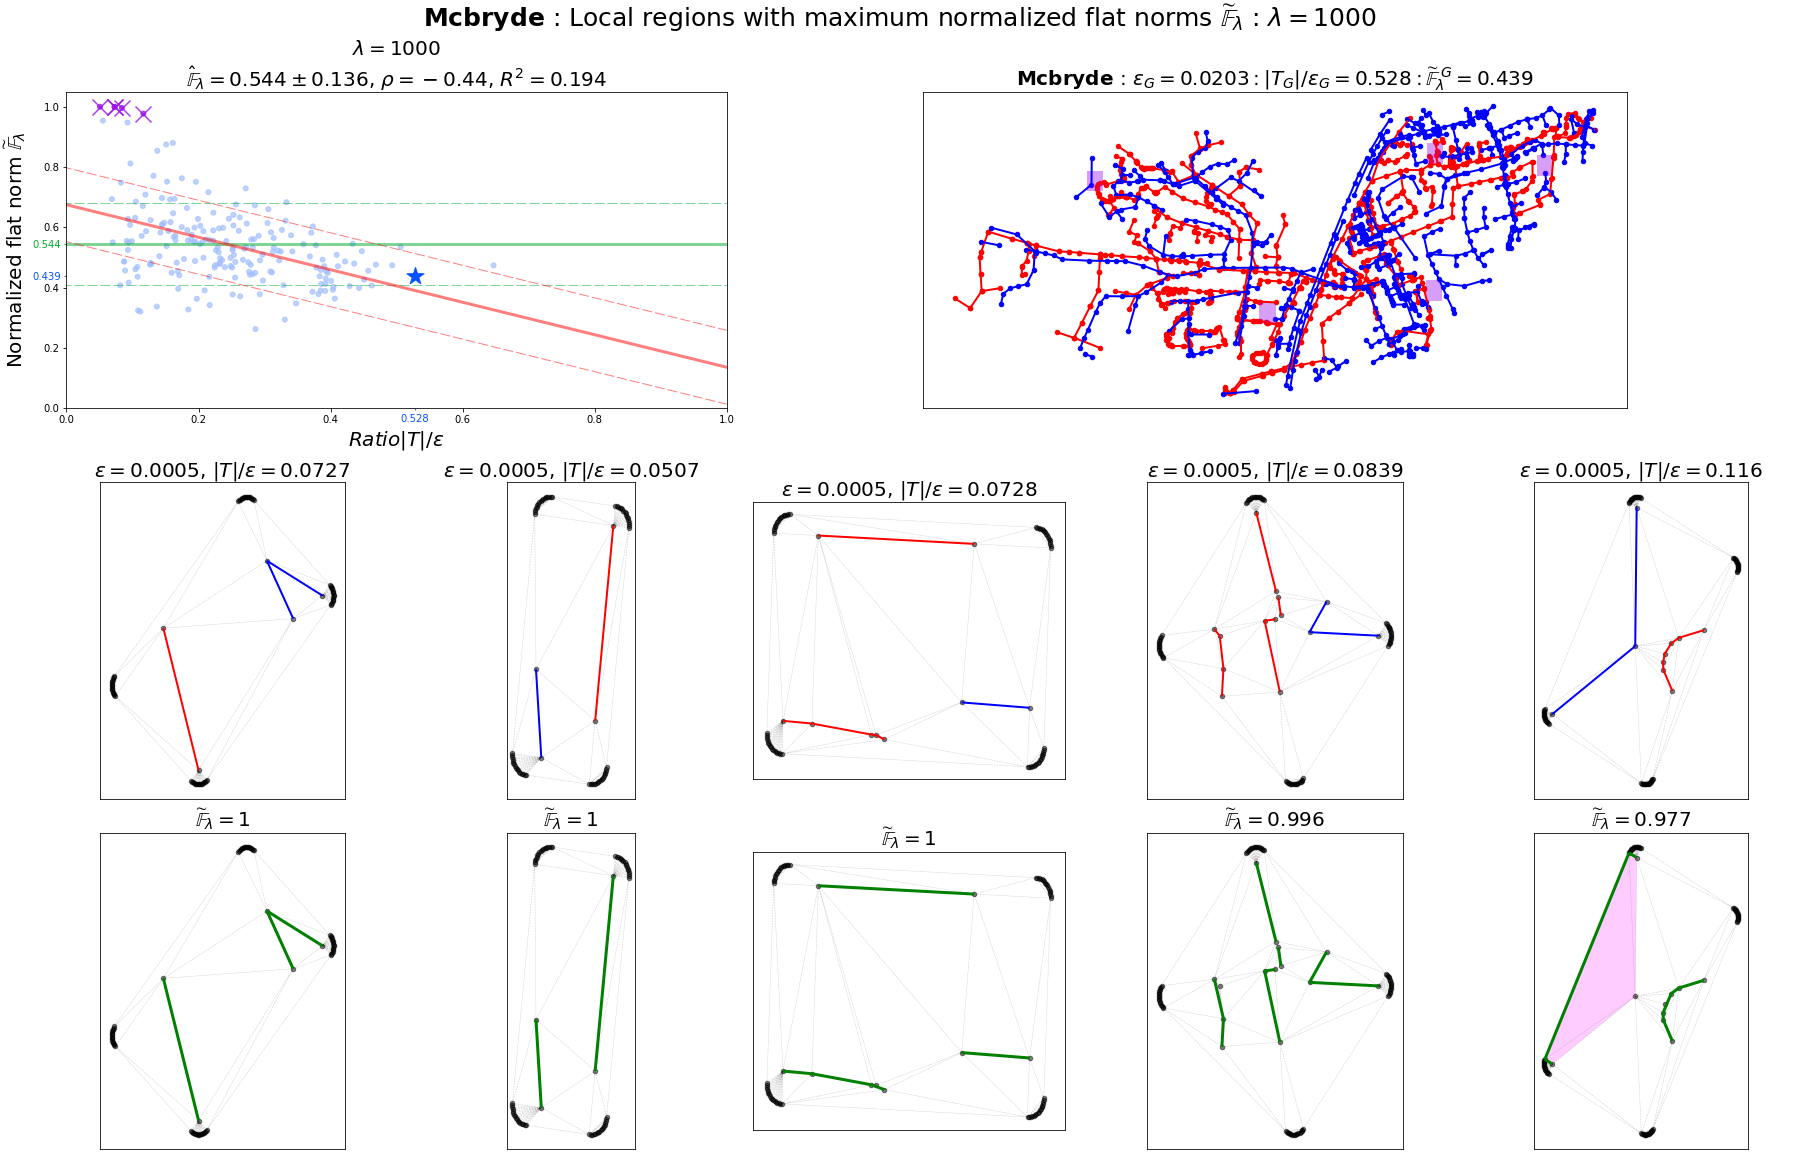
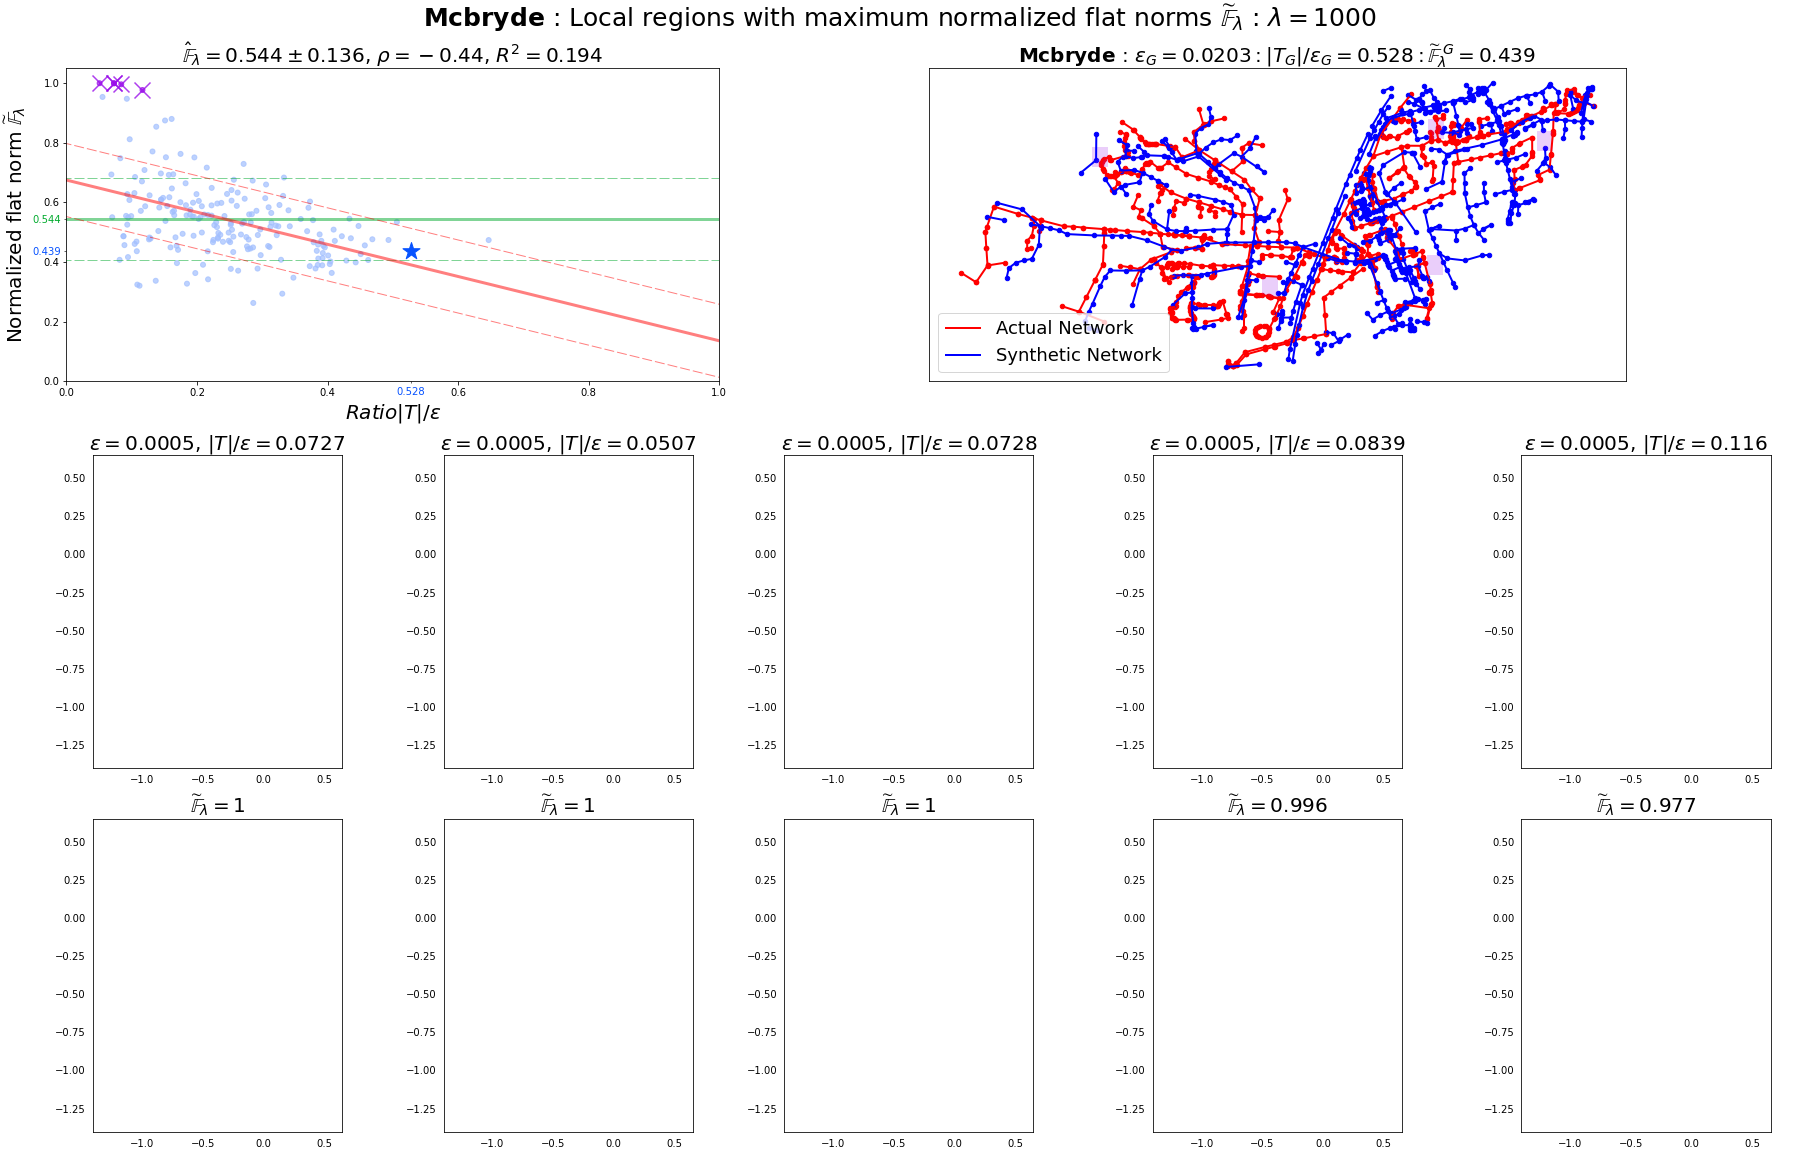
updated mcbryde code

diff --git a/libs/pyFlatNormFixture.py b/libs/pyFlatNormFixture.py
@@ -818,7 +818,8 @@ class FlatNormFixture(unittest.TestCase):
             title = title_styles['ll'].format(lambda_=lambda_)
 
         subtitle = ", ".join([titles[t_name] for t_name in which_titles])
-        title = f"{title}\n{subtitle}"
+        # title = f"{title}\n{subtitle}"
+        title = f"{subtitle}"
         ax.set_title(title, fontsize=kwargs.get('title_fontsize', 25))
 
         # plot config -------------------------------------------------------------
@@ -896,7 +897,7 @@ class FlatNormFixture(unittest.TestCase):
 
         # PLOT SELECTED REGIONS ---------------------------------------------------------
         if axfn or axtr:
-            which_titles = kwargs.get('region_titles', ['epsilon', 'ratio', 'fn'])
+            # which_titles = kwargs.get('region_titles', ['epsilon', 'ratio', 'fn'])
             for r, r_id in enumerate(region_ids):
                 # flat norm
                 epsilon, ratio, fnorm = fn_df.loc[r_id, ['epsilons', 'input_ratios', 'flatnorms']]
@@ -907,20 +908,21 @@ class FlatNormFixture(unittest.TestCase):
                     'ratio': f"$|T|/\\epsilon = {ratio:0.3g}$",
                     'fn': f"${FNN}={fnorm:0.3g}$",
                 }
-                title = ", ".join([titles[t_name] for t_name in which_titles])
 
                 D, T1, T2 = self.get_triangulated_currents(region, act_geom, synt_geom, opts="ps")
                 
                 if axtr and not axfn:
                     which_titles = kwargs.get('region_titles', ['epsilon', 'ratio', 'fn'])
                     title = ", ".join([titles[t_name] for t_name in which_titles])
-                    plot_triangulation(D["triangulated"], T1, T2, axtr[r])
+                    plot_triangulation(D["triangulated"], T1, T2, axtr[r], 
+                                       region_bound = region)
                     axtr[r].set_title(title, fontsize=fontsize)
                 else:
                     if axtr:
                         which_titles = kwargs.get('region_titles', ['epsilon', 'ratio'])
                         title = ", ".join([titles[t_name] for t_name in which_titles])
-                        plot_triangulation(D["triangulated"], T1, T2, axtr[r])
+                        plot_triangulation(D["triangulated"], T1, T2, axtr[r], 
+                                           region_bound = region)
                         axtr[r].set_title(title, fontsize=fontsize)
     
                     if axfn:
@@ -932,7 +934,9 @@ class FlatNormFixture(unittest.TestCase):
                             normalized=True,
                             plot=True
                         )
-                        plot_norm(plot_data['triangulated'], plot_data['echain'], plot_data['tchain'], axfn[r])
+                        plot_norm(plot_data['triangulated'], plot_data['echain'], 
+                                  plot_data['tchain'], axfn[r],
+                                  region_bound = region)
                         axfn[r].set_title(title, fontsize=fontsize)
 
         return stats_data

diff --git a/libs/pyDrawNetworklib.py b/libs/pyDrawNetworklib.py
@@ -202,7 +202,7 @@ def plot_result(dict_struct, t1, t2, s, x):
     return fig
 
 
-def plot_norm(tri_struct, x, s, ax):
+def plot_norm(tri_struct, x, s, ax, **kwargs):
     # Get triangles and edges from the dictionary
     vertices = tri_struct['vertices']
     triangles = tri_struct['triangles'][s[0] != 0]
@@ -224,6 +224,14 @@ def plot_norm(tri_struct, x, s, ax):
                directed=False)
     draw_polygons(ax, geom_triangles, color='magenta', alpha=0.2, label=None)
     ax.tick_params(left=False, bottom=False, labelleft=False, labelbottom=False)
+    
+    # ---- region of fixed size ----
+    region_bound = kwargs.get('region_bound', None)
+    if region_bound:
+        k = np.pi/180.0
+        xmin,xmax,ymin,ymax = region_bound.bounds
+        ax.set_xlim(xmin*k,xmax*k)
+        ax.set_ylim(ymin*k,ymax*k)
     return ax
 
 
@@ -258,7 +266,7 @@ def plot_input(act_geom, syn_geom, ax):
     return ax
 
 
-def plot_triangulation(tri_struct, t1, t2, ax):
+def plot_triangulation(tri_struct, t1, t2, ax, **kwargs):
     geom_vertices = [Point(v) for v in tri_struct['vertices'].tolist()]
     geom_subsimplices = [LineString((tri_struct['vertices'][c[0]],
                                      tri_struct['vertices'][c[1]])) \
@@ -275,7 +283,18 @@ def plot_triangulation(tri_struct, t1, t2, ax):
     draw_lines(ax, geom_segment2, color='blue', width=2.0, style='solid',
                alpha=1.0, directed=False,label='Synthetic network')
     ax.tick_params(left=False, bottom=False, labelleft=False, labelbottom=False)
-    ax.legend(fontsize=20, markerscale=2.5, loc="upper left")
+    
+    # ---- region of fixed size ----
+    region_bound = kwargs.get('region_bound', None)
+    if region_bound:
+        xmin,xmax,ymin,ymax = region_bound.bounds
+        ax.set_xlim(xmin,xmax)
+        ax.set_ylim(ymin,ymax)
+    
+    # ---- legend for figure ----
+    legend = kwargs.get('legend', False)
+    if legend:
+        ax.legend(fontsize=20, markerscale=2.5, loc="upper left")
     return ax
 
 
@@ -297,7 +316,7 @@ def plot_regions(act_geom, syn_geom, geom_regions, ax,  **kwargs):
     draw_points(ax, geom2_vertices, color='blue', size=20, alpha=1.0, marker='o')
     draw_lines(ax, geom2_segments, color='blue', width=2.0, style='solid', alpha=1.0,
                directed=False, label='Synthetic Network')
-    # ax.legend(fontsize=20, markerscale=3)
+    ax.legend(fontsize=18, markerscale=2)
     if highlight is not None:
         geom_regions = geom_regions[:]
         region = geom_regions.pop(highlight)

diff --git a/mcbryde.py b/mcbryde.py
@@ -67,6 +67,8 @@ selected_regions_ids = fn_df_lambda \
     .sort_values(by='flatnorms', ascending=False)['id'] \
     .to_list()[:5]
 
+#%% Just plot the regions
+
 fx.plot_selected_regions(
     selected_regions_ids, flatnorm_df, fn_city_df, lambda_,
     axd=axd,
